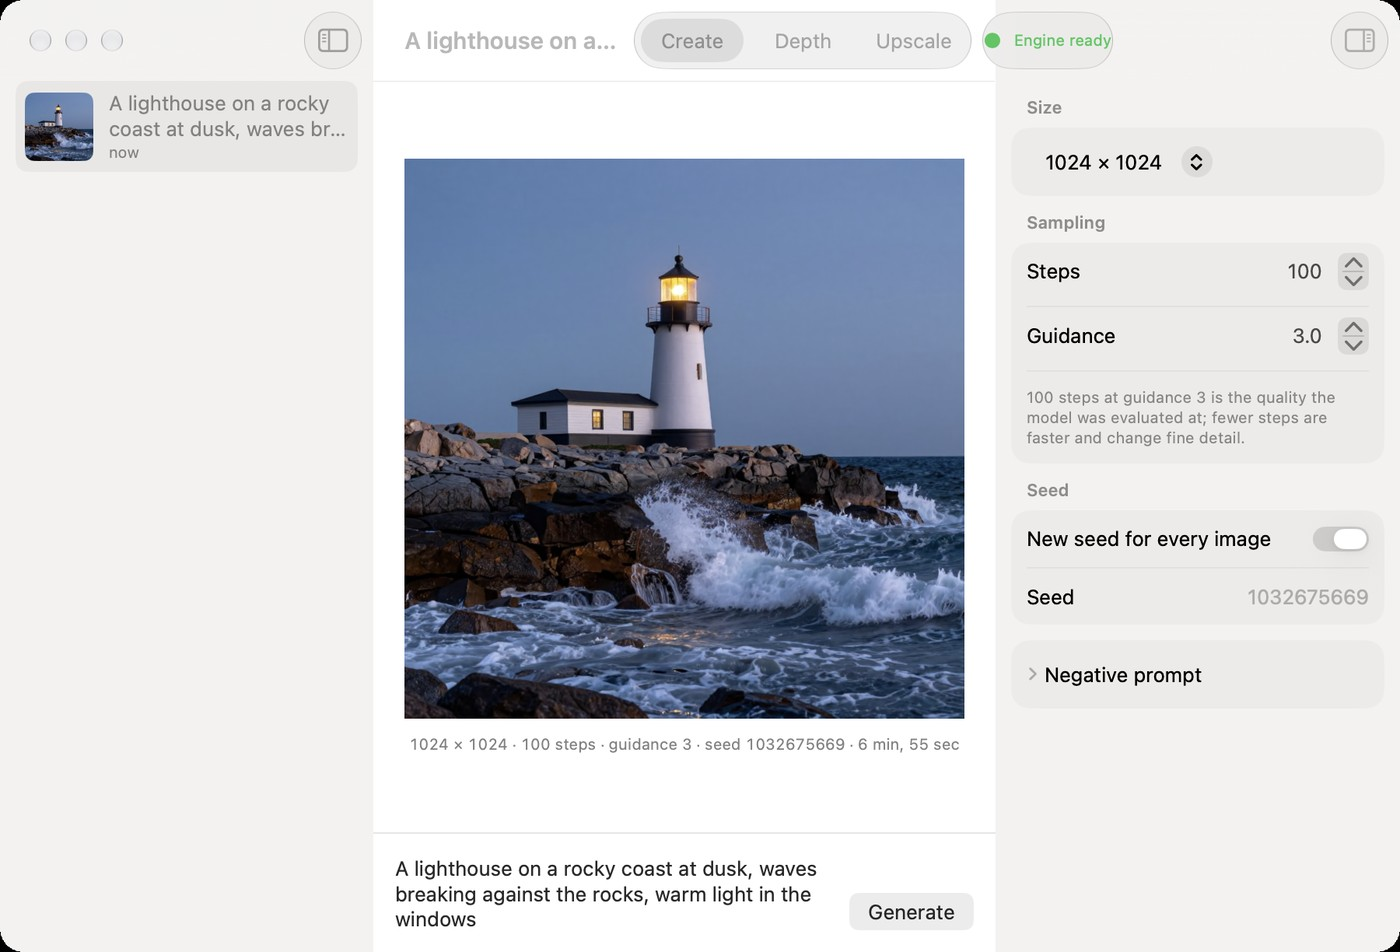
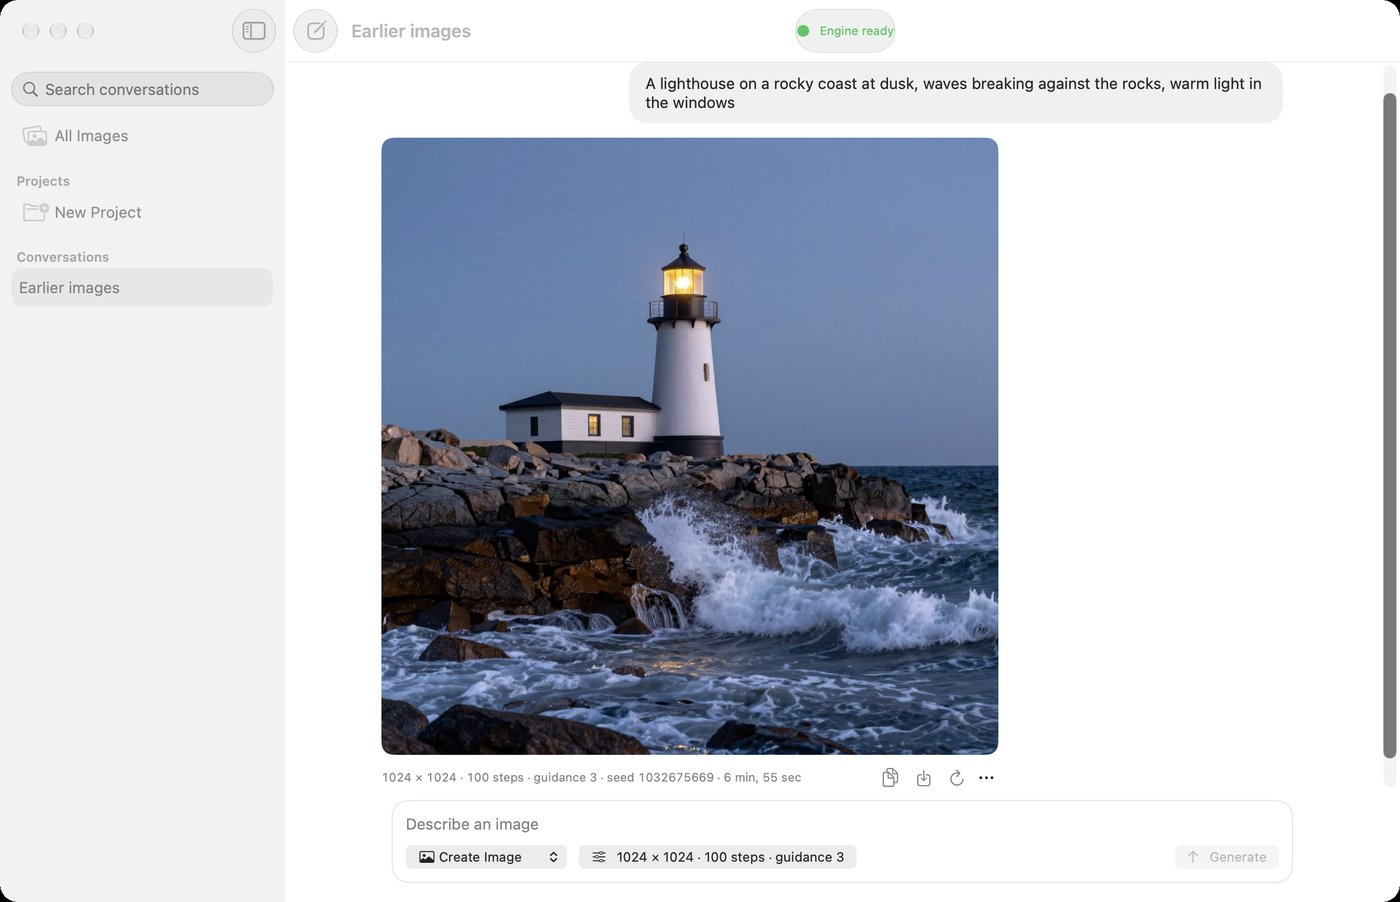
docs: the conversation-based app, output naming, offline serve options
New app screenshot (the real lighthouse result, no stand-in images), the
app's library and import of Iris 0.1 history, numbered outputs for inputs
that share a name, serve --weights, and how to work on the app without a GPU.

diff --git a/README.md b/README.md
@@ -60,6 +60,10 @@ iris-metal depth photo.jpg            # depth/photo_depth.png and .npy
 iris-metal upscale photo.jpg          # upscaled/photo_x4.png
 ```
 
+Inputs that share a file name (`a/photo.jpg b/photo.jpg`) get numbered
+outputs (`photo_depth.png`, `photo-2_depth.png`) instead of overwriting each
+other, and every input is checked before the model loads.
+
 From Python:
 
 ```python
@@ -75,10 +79,26 @@ encodings, so repeated generations skip the load and the text encoder.
 
 ## The macOS app
 
-`apps/macos` is a SwiftUI app that drives a local `iris-metal serve`:
-prompt and settings, live progress with cancellation, a history of results,
-depth and upscaling by drag and drop, and storage settings. It holds no model
-code of its own. It needs macOS 15 and was built with Xcode 27:
+`apps/macos` is a SwiftUI app that drives a local `iris-metal serve`; it
+holds no model code of its own. Work is organized like a chat app:
+
+- **Conversations** list each request (a prompt, or an image to process) and
+  its result in order, with live progress and Stop. Each request is generated
+  on its own: Iris-3B does not see earlier prompts or images, and the app does
+  not pretend otherwise.
+- **A composer** at the bottom switches between creating an image, estimating
+  depth and upscaling, and holds the size, steps, guidance, seed and negative
+  prompt for the next image.
+- **Results** open in Quick Look and can be copied, saved, generated again
+  with a new seed, reused as settings, or upscaled and depth-estimated as new
+  entries of the same conversation.
+- **The sidebar** groups conversations into projects, searches titles and
+  prompts, and shows every result under All Images.
+
+The library lives in `~/Library/Application Support/Iris` (`Library.json`
+plus the images). The history of Iris 0.1 is imported on first launch into
+a conversation named “Earlier images”. The app needs macOS 15 and was built
+with Xcode 27:
 
 ```bash
 cd apps/macos && xcodebuild -scheme Iris -configuration Release build
@@ -89,7 +109,7 @@ The app uses a server that is already running on its port, or starts
 `/usr/local/bin`. If you installed into a virtual environment, set the path
 to its `bin/iris-metal` in the app's Settings.
 
-<p align="center"><img src="assets/metal/app.jpg" width="760" alt="The Iris app: a history sidebar on the left, in the middle a generated photograph of a lighthouse on a rocky coast at dusk with its size, steps, guidance, seed and time below it and the prompt field underneath, and size, sampling and seed settings on the right"></p>
+<p align="center"><img src="assets/metal/app.jpg" width="760" alt="The Iris app: a sidebar with search, All Images, projects and conversations on the left; on the right a conversation showing the prompt about a lighthouse on a rocky coast at dusk, the generated photograph with its size, steps, guidance, seed and time below it, and the composer with the workflow and settings at the bottom"></p>
 
 ## HTTP API
 
@@ -106,9 +126,11 @@ Jobs run in order with a bounded queue. Cancelling stops a generation at its
 next step and an upscale at its next tile; a depth estimate runs in one pass of
 a few seconds.
 Only one network is resident at a time; switching between text-to-image,
-depth and upscaling releases the previous model. The server has no
+depth and upscaling releases the previous model. `--checkpoint` and
+`--weights` take local directories for offline use. The server has no
 authentication and should not be exposed beyond localhost; it refuses requests
-from web pages (which carry an `Origin` header) and for other host names. With
+from web pages (which carry an `Origin` or cross-site `Sec-Fetch-Site` header)
+and for other host names. With
 `--host 0.0.0.0` it cannot tell its own names apart and skips the host check.
 
 ## Performance
@@ -120,7 +142,8 @@ sessions.
 
 **Text-to-image, 1024 × 1024, 100 steps.** Every implementation denoises the
 same saved input (text-encoder states and initial noise) with the upstream
-sampler; time is the denoising loop, memory is the peak physical footprint of
+sampler (`scripts/denoise_fixture.py` for this engine); time is the denoising
+loop, memory is the peak physical footprint of
 the process, and the error is against the upstream code in FP32:
 
 | | Time | Peak memory | NRMSE vs FP32 |
@@ -280,7 +303,14 @@ pytest tests/test_metal_*.py
 python scripts/benchmark.py --size 1024x1024                    # latency and memory per phase
 python scripts/evaluate.py --split dev --out runs/reference       # benchmark prompt set
 python scripts/compare_runs.py runs/reference runs/candidate --sheet sheet.png
+python scripts/denoise_fixture.py fixture.npz                     # time a saved fixture
 ```
+
+The app's unit tests (`xcodebuild -scheme Iris test` in `apps/macos`) never
+touch the real library. `python apps/macos/fake_engine.py` serves the real
+HTTP API over CPU stand-ins with synthetic images, for working on the app
+without a GPU or model downloads; the app attaches to it on port 8765. The
+Xcode project is generated from `apps/macos/project.yml` with XcodeGen.
 
 The upstream training code is kept unchanged under `src/iris3b/` and needs
 `pip install -e ".[train]"` and CUDA.
